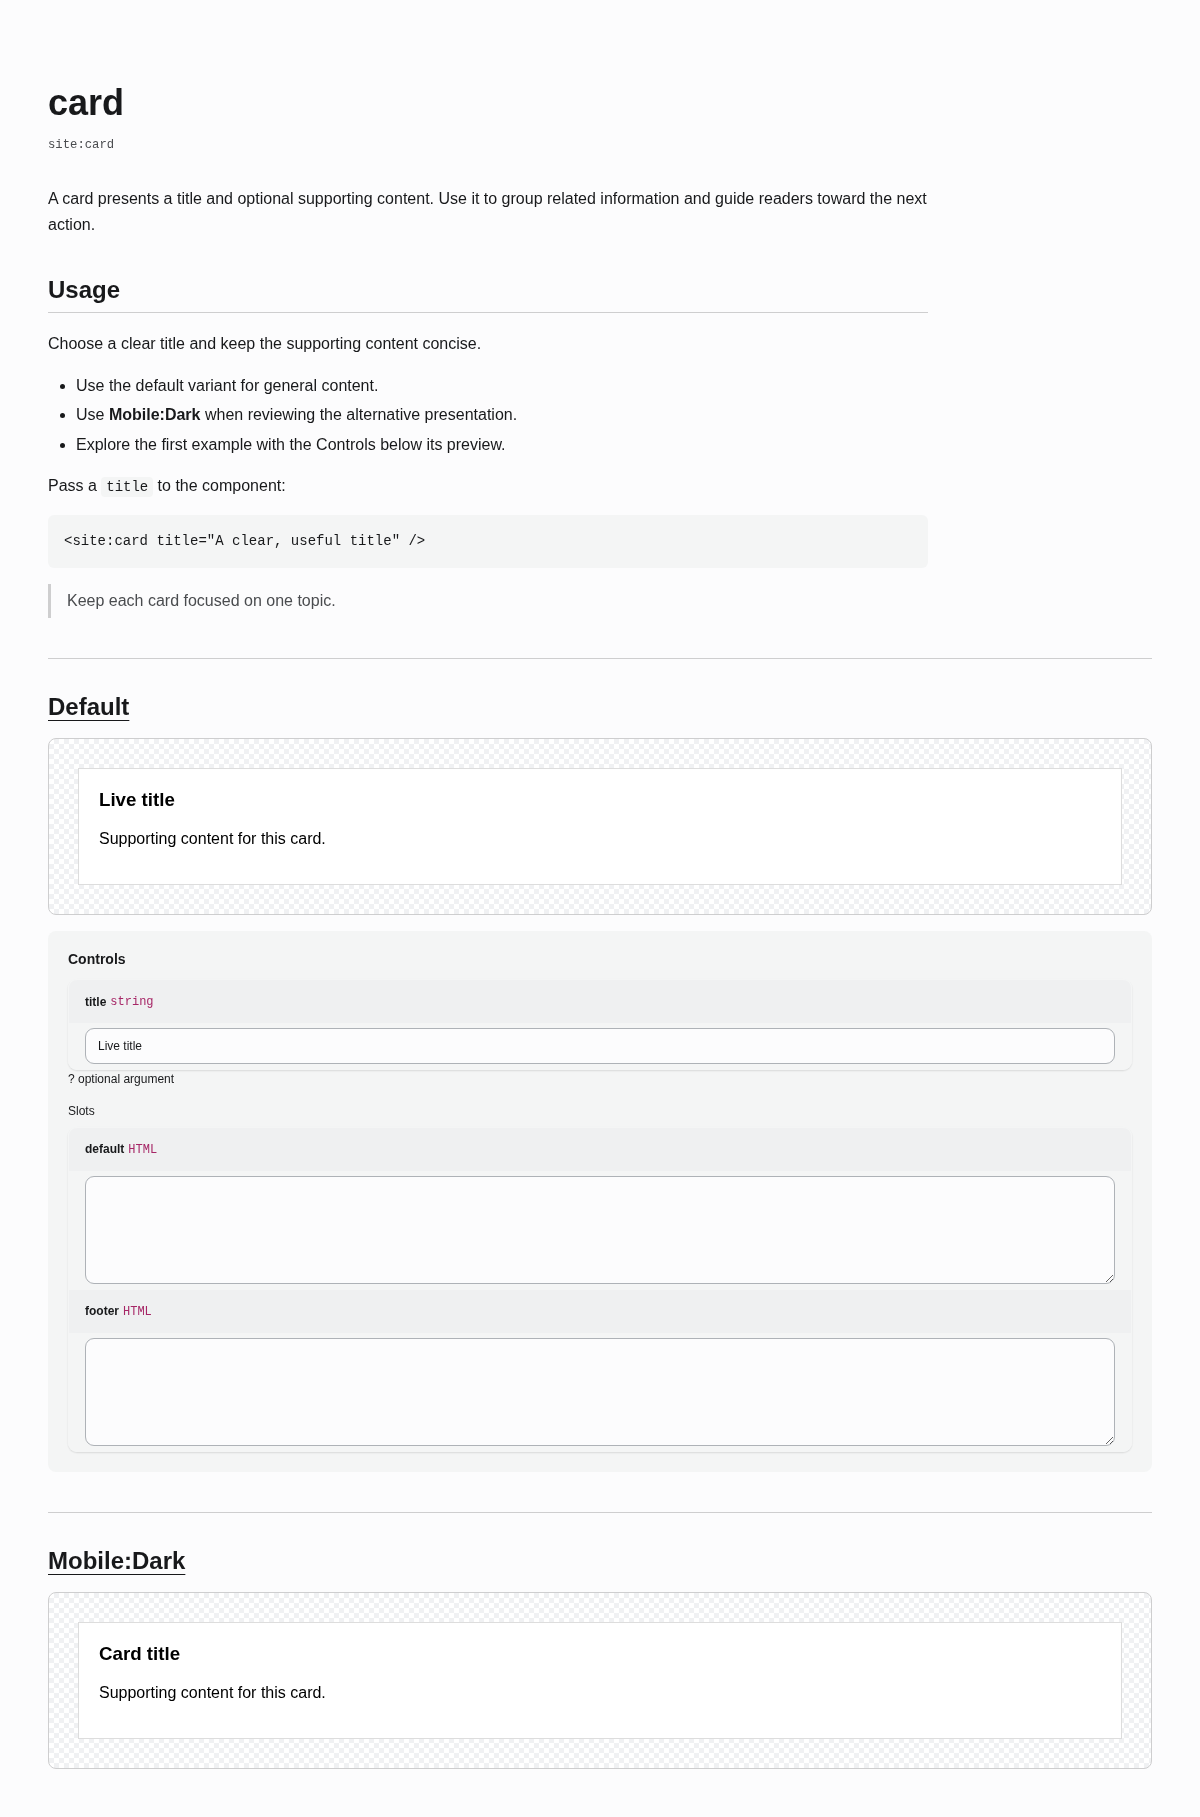
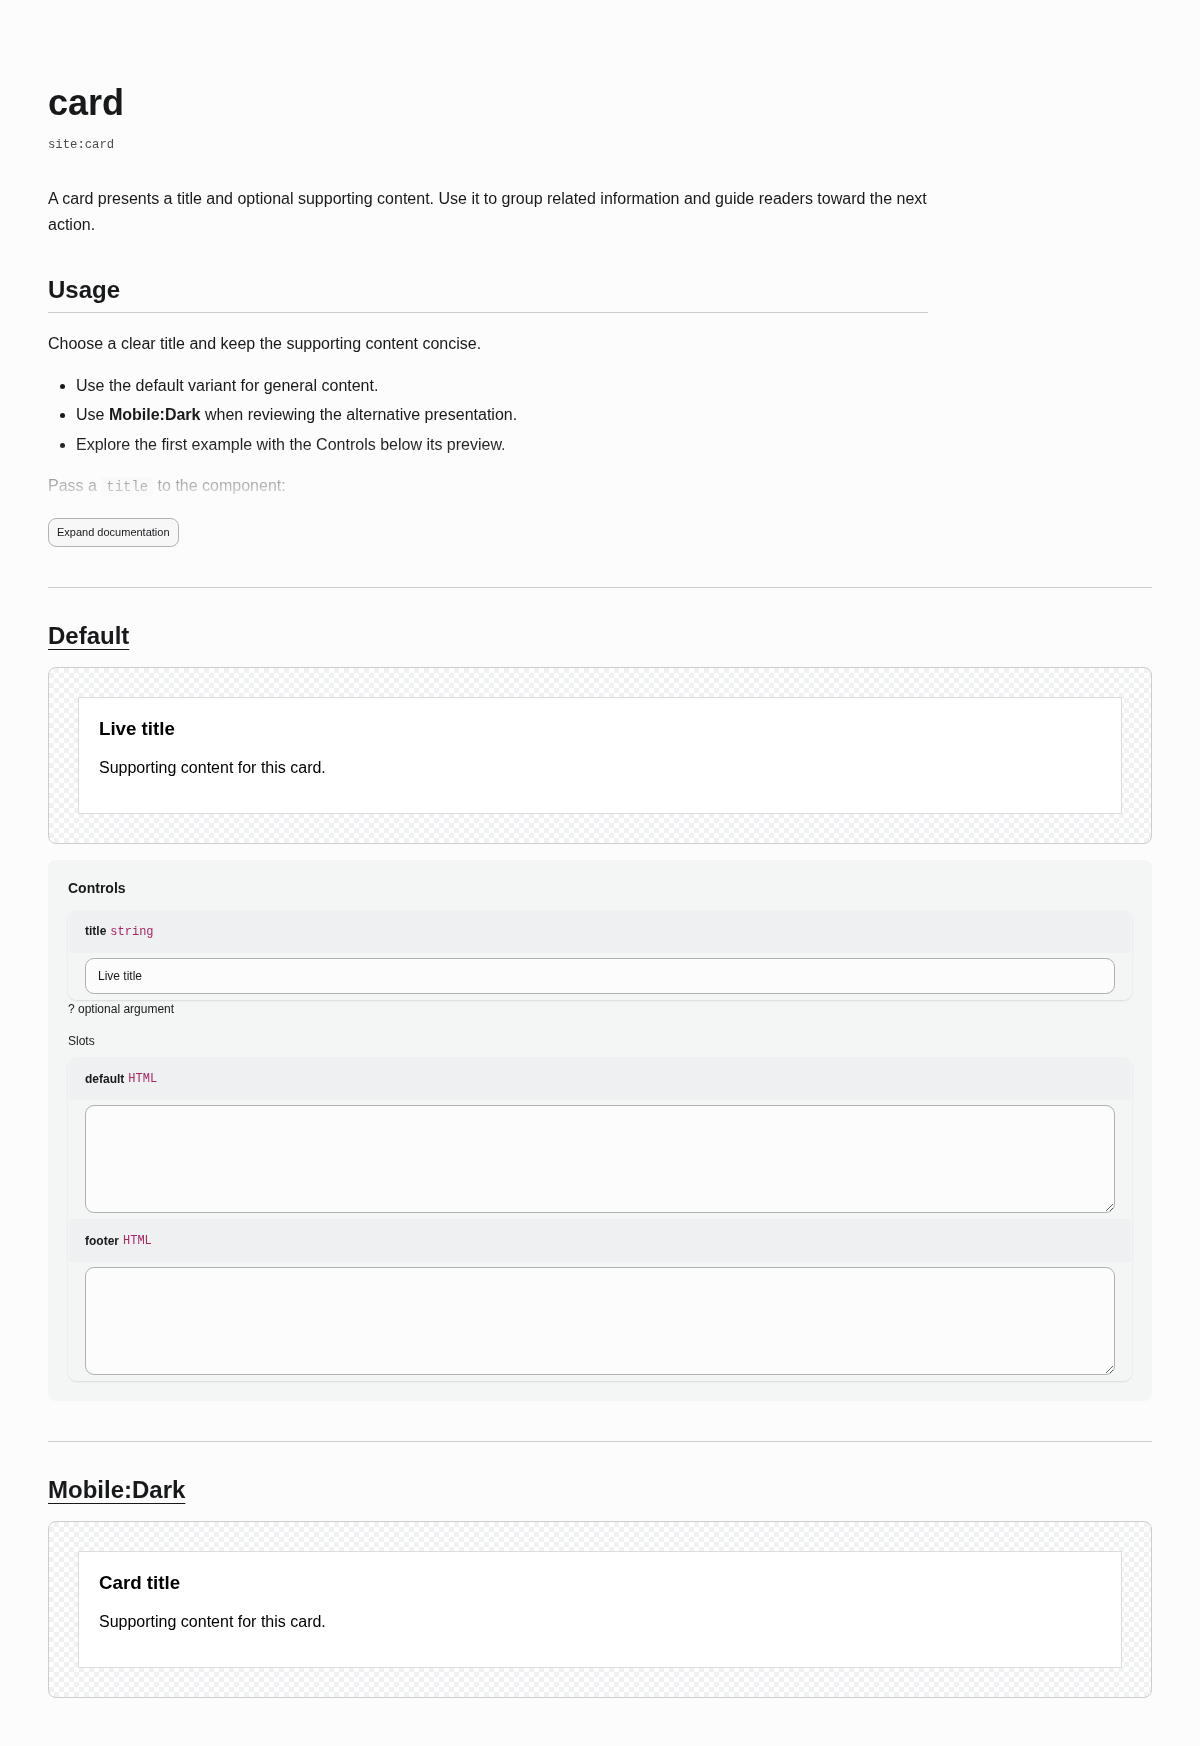
[FEATURE] Collapse long Docs text with a fading expand toggle

diff --git a/Playwright/src/componentOverview.test.ts b/Playwright/src/componentOverview.test.ts
@@ -1,0 +1,117 @@
+import assert from 'node:assert/strict';
+import { readFile } from 'node:fs/promises';
+import { createRequire } from 'node:module';
+import { createContext, SourceTextModule, SyntheticModule } from 'node:vm';
+import test from 'node:test';
+
+const { DOMParser } = createRequire(import.meta.url)('linkedom');
+
+async function setup(height = 600, documentation = true) {
+  const document = new DOMParser().parseFromString(`<html><body><main>${documentation ? `
+    <div data-overview-description><div data-overview-description-content><pre data-overview-markdown>Documentation</pre></div></div>
+    <button data-overview-description-toggle hidden aria-expanded="false">Expand documentation</button>` : ''}</main></body></html>`, 'text/html');
+  const root = document.querySelector('main');
+  const description = root.querySelector('[data-overview-description]');
+  const content = root.querySelector('[data-overview-description-content]');
+  const button = root.querySelector('button');
+  if (content) content.getBoundingClientRect = () => ({ height });
+  const observers: any[] = [];
+  const context = createContext({
+    AbortController, Event, EventTarget,
+    document: { querySelectorAll: () => [] },
+    getComputedStyle: () => ({ getPropertyValue: () => '320px' }),
+    ResizeObserver: class {
+      observed = false;
+      callback: () => void;
+      constructor(callback: () => void) { this.callback = callback; observers.push(this); }
+      observe() { this.observed = true; }
+      disconnect() { this.observed = false; }
+    },
+  });
+  const lifecycle = new SourceTextModule(await readFile(new URL('../../Resources/Public/JavaScript/Backend/variant-lifecycle.js', import.meta.url), 'utf8'), { context });
+  await lifecycle.link(() => { throw new Error('Unexpected dependency'); });
+  await lifecycle.evaluate();
+  const dependencies: Record<string, Record<string, unknown>> = {
+    '@typo3/core/document-service.js': { default: { ready: () => Promise.resolve() } },
+    '@andersundsehr/frontend-studio/backend/variant-preview.js': { default: class {} },
+    '@andersundsehr/frontend-studio/backend/variant-state.js': { getVariantState() { throw new Error('Unexpected mount'); } },
+    '@andersundsehr/frontend-studio/vendor/markdown-converter': { renderMarkdown: (source: string) => `<p>${source}</p>` },
+  };
+  const module = new SourceTextModule(await readFile(new URL('../../Resources/Public/JavaScript/Backend/component-overview.js', import.meta.url), 'utf8'), { context });
+  await module.link(async (specifier) => {
+    if (specifier.endsWith('/variant-lifecycle.js')) return lifecycle;
+    const values = dependencies[specifier];
+    assert.ok(values, specifier);
+    const dependency = new SyntheticModule(Object.keys(values), function () {
+      for (const [name, value] of Object.entries(values)) this.setExport(name, value);
+    }, { context });
+    await dependency.link(() => { throw new Error('Unexpected dependency'); });
+    return dependency;
+  });
+  await module.evaluate();
+  const Overview = (module.namespace as any).default;
+  const view = new EventTarget();
+  const overview = new Overview(root, view);
+  return {
+    overview, view, description, content, button, observer: observers[0],
+    click: () => button.dispatchEvent(new document.defaultView.Event('click')),
+    focus: () => description.dispatchEvent(new document.defaultView.Event('focusin')),
+    resize: (next: number) => { height = next; observers[0].callback(); },
+  };
+}
+
+test('long documentation starts faded and collapsed, and its button expands and collapses it', async () => {
+  const ui = await setup();
+  assert.equal(ui.description.classList.contains('is-collapsed'), true);
+  assert.equal(ui.button.hidden, false);
+  assert.equal(ui.button.getAttribute('aria-expanded'), 'false');
+  assert.equal(ui.content.innerHTML, '<p>Documentation</p>');
+  ui.click();
+  assert.equal(ui.description.classList.contains('is-collapsed'), false);
+  assert.equal(ui.button.getAttribute('aria-expanded'), 'true');
+  assert.equal(ui.button.textContent, 'Collapse documentation');
+  ui.click();
+  assert.equal(ui.description.classList.contains('is-collapsed'), true);
+  assert.equal(ui.button.textContent, 'Expand documentation');
+  ui.overview.destroy();
+});
+
+test('short documentation has no toggle and resizing or delayed content can change whether it is long', async () => {
+  const ui = await setup(320);
+  assert.equal(ui.description.classList.contains('is-collapsed'), false);
+  assert.equal(ui.button.hidden, true);
+  ui.resize(321);
+  assert.equal(ui.description.classList.contains('is-collapsed'), true);
+  assert.equal(ui.button.hidden, false);
+  ui.click();
+  ui.resize(800);
+  assert.equal(ui.button.getAttribute('aria-expanded'), 'true');
+  ui.resize(100);
+  assert.equal(ui.button.hidden, true);
+  assert.equal(ui.button.getAttribute('aria-expanded'), 'false');
+  ui.resize(600);
+  assert.equal(ui.description.classList.contains('is-collapsed'), true);
+  ui.overview.destroy();
+});
+
+test('keyboard focus reveals documentation links and observers suspend, resume and disconnect on destruction', async () => {
+  const ui = await setup();
+  ui.focus();
+  assert.equal(ui.description.classList.contains('is-collapsed'), false);
+  assert.equal(ui.button.getAttribute('aria-expanded'), 'true');
+  ui.view.dispatchEvent(new Event('suspend'));
+  assert.equal(ui.observer.observed, false);
+  ui.view.dispatchEvent(new Event('resume'));
+  assert.equal(ui.observer.observed, true);
+  assert.equal(ui.button.getAttribute('aria-expanded'), 'true');
+  ui.overview.destroy();
+  assert.equal(ui.observer.observed, false);
+  ui.resize(100);
+  assert.equal(ui.button.getAttribute('aria-expanded'), 'true');
+});
+
+test('an overview without documentation does not create a description observer', async () => {
+  const ui = await setup(0, false);
+  assert.equal(ui.observer, undefined);
+  ui.overview.destroy();
+});

diff --git a/Resources/Public/JavaScript/Backend/component-overview.js b/Resources/Public/JavaScript/Backend/component-overview.js
@@ -11,7 +11,32 @@ export default class ComponentOverview extends VariantFeature {
     this.frameCleanup = new Map();
     this.expand = root.querySelector('[data-overview-expand]');
     const source = root.querySelector('[data-overview-markdown]');
-    if (source) root.querySelector('[data-overview-description]').innerHTML = renderMarkdown(source.textContent);
+    this.description = root.querySelector('[data-overview-description]');
+    this.descriptionContent = root.querySelector('[data-overview-description-content]');
+    this.descriptionToggle = root.querySelector('[data-overview-description-toggle]');
+    this.descriptionExpanded = false;
+    if (source) this.descriptionContent.innerHTML = renderMarkdown(source.textContent);
+    if (this.descriptionContent && this.descriptionToggle) {
+      this.descriptionResize = new ResizeObserver(() => this.updateDescription());
+      this.descriptionResize.observe(this.descriptionContent);
+      this.updateDescription();
+      this.listen(this.descriptionToggle, 'click', () => {
+        this.descriptionExpanded = !this.descriptionExpanded;
+        this.updateDescription();
+      });
+      // Keyboard navigation must never focus a link hidden beneath the fade.
+      this.listen(this.description, 'focusin', () => {
+        if (this.description.classList.contains('is-collapsed')) {
+          this.descriptionExpanded = true;
+          this.updateDescription();
+        }
+      });
+      this.listen(view, 'suspend', () => this.descriptionResize.disconnect());
+      this.listen(view, 'resume', () => {
+        this.descriptionResize.observe(this.descriptionContent);
+        this.updateDescription();
+      });
+    }
     if (root.querySelector('[data-frontend-studio-variant-frame]')) {
       view.mount('preview', () => new VariantPreview(root, view));
     }
@@ -32,6 +57,17 @@ export default class ComponentOverview extends VariantFeature {
       this.expand.textContent = expanded ? 'Collapse preview' : 'Expand preview';
       this.frames[0]?.closest('[data-overview-frame-container]').classList.toggle('is-expanded', expanded);
     });
+  }
+
+  updateDescription() {
+    if (this.destroyed) return;
+    const limit = parseFloat(getComputedStyle(this.description).getPropertyValue('--overview-description-height'));
+    const long = this.descriptionContent.getBoundingClientRect().height > limit;
+    if (!long) this.descriptionExpanded = false;
+    this.description.classList.toggle('is-collapsed', long && !this.descriptionExpanded);
+    this.descriptionToggle.hidden = !long;
+    this.descriptionToggle.setAttribute('aria-expanded', String(this.descriptionExpanded));
+    this.descriptionToggle.textContent = this.descriptionExpanded ? 'Collapse documentation' : 'Expand documentation';
   }
 
   updateContext() {
@@ -111,6 +147,7 @@ export default class ComponentOverview extends VariantFeature {
   }
 
   destroy() {
+    this.descriptionResize?.disconnect();
     this.clearFrames();
     super.destroy();
   }

diff --git a/Resources/Private/Templates/FrontendStudio/Overview.html b/Resources/Private/Templates/FrontendStudio/Overview.html
@@ -18,7 +18,13 @@
       </header>
       <f:if condition="{documentationError}"><p role="alert">{documentationError}</p></f:if>
       <f:if condition="{documentationMarkdown}">
-        <f:then><div data-overview-description><pre data-overview-markdown>{documentationMarkdown}</pre></div></f:then>
+        <f:then>
+          <div data-overview-description id="overview-description">
+            <div data-overview-description-content><pre data-overview-markdown>{documentationMarkdown}</pre></div>
+          </div>
+          <button type="button" class="btn btn-default btn-sm frontend-studio-overview-description-toggle"
+            data-overview-description-toggle aria-expanded="false" aria-controls="overview-description" hidden>Expand documentation</button>
+        </f:then>
         <f:else><p class="text-body-secondary">No documentation yet. Use the Doc tab of a variant to add component documentation.</p></f:else>
       </f:if>
       <f:if condition="{overviewComponent.errors}">

diff --git a/Resources/Public/Css/Backend/component-overview.css b/Resources/Public/Css/Backend/component-overview.css
@@ -1,4 +1,5 @@
 .frontend-studio-overview {
+  --overview-description-height: 320px;
   --overview-border: var(--typo3-component-border-color, #d8dee4);
   --overview-muted-surface: var(--typo3-surface-container-low, #f6f8fa);
   max-width: 1200px;
@@ -156,7 +157,7 @@
   border-top: 1px solid var(--overview-border);
 }
 
-.frontend-studio-overview [data-overview-description] > :first-child {
+.frontend-studio-overview [data-overview-description-content] > :first-child {
   margin-top: 0;
 }
 
@@ -229,4 +230,18 @@
 
 .frontend-studio-overview [hidden] {
   display: none !important;
+}
+
+.frontend-studio-overview [data-overview-description-content] {
+  display: flow-root;
+}
+
+.frontend-studio-overview [data-overview-description].is-collapsed {
+  max-height: var(--overview-description-height);
+  overflow: hidden;
+  mask-image: linear-gradient(#000 calc(100% - 4rem), transparent);
+}
+
+.frontend-studio-overview-description-toggle {
+  margin-top: 0.75rem;
 }

diff --git a/README.md b/README.md
@@ -163,6 +163,8 @@ Selecting a component in the tree opens its Docs overview; selecting an individu
 The overview shows the shared component Markdown, then the first variant in fixture declaration order with its existing Controls beneath it.
 Other variants appear as separate previews with links to their inspectors.
 Live controls affect only the first preview; the remaining examples keep their stored fixture values.
+Long documentation starts collapsed with a fade and an Expand documentation button.
+Short documentation remains fully visible; expanded documentation can be collapsed again.
 The overview preserves the current site and language context without showing selectors.
 Controls provide temporary live edits; fixture save and reset actions remain in the variant inspector.
 
